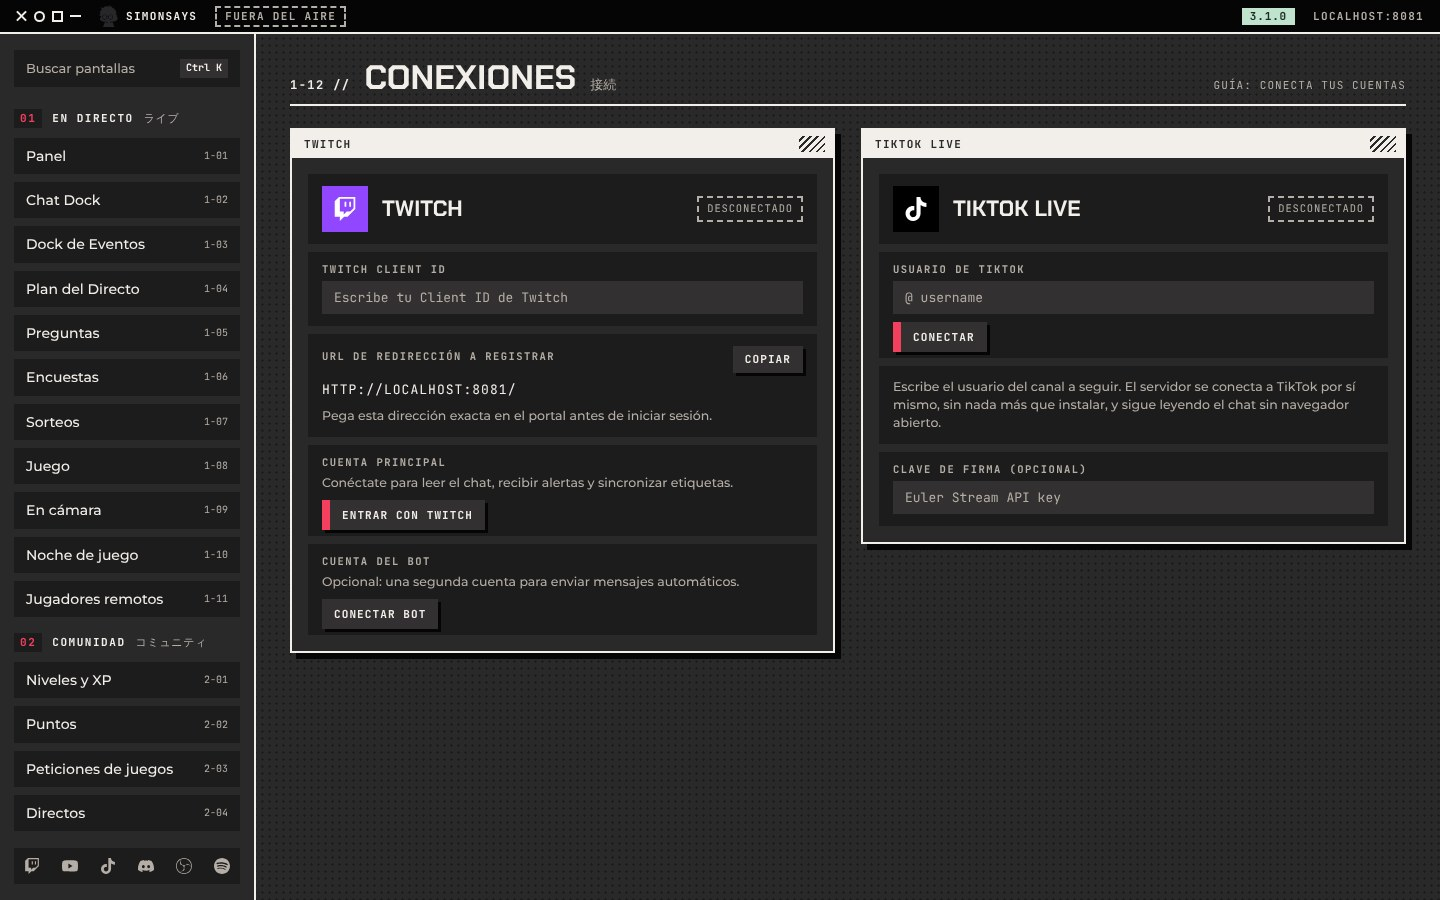
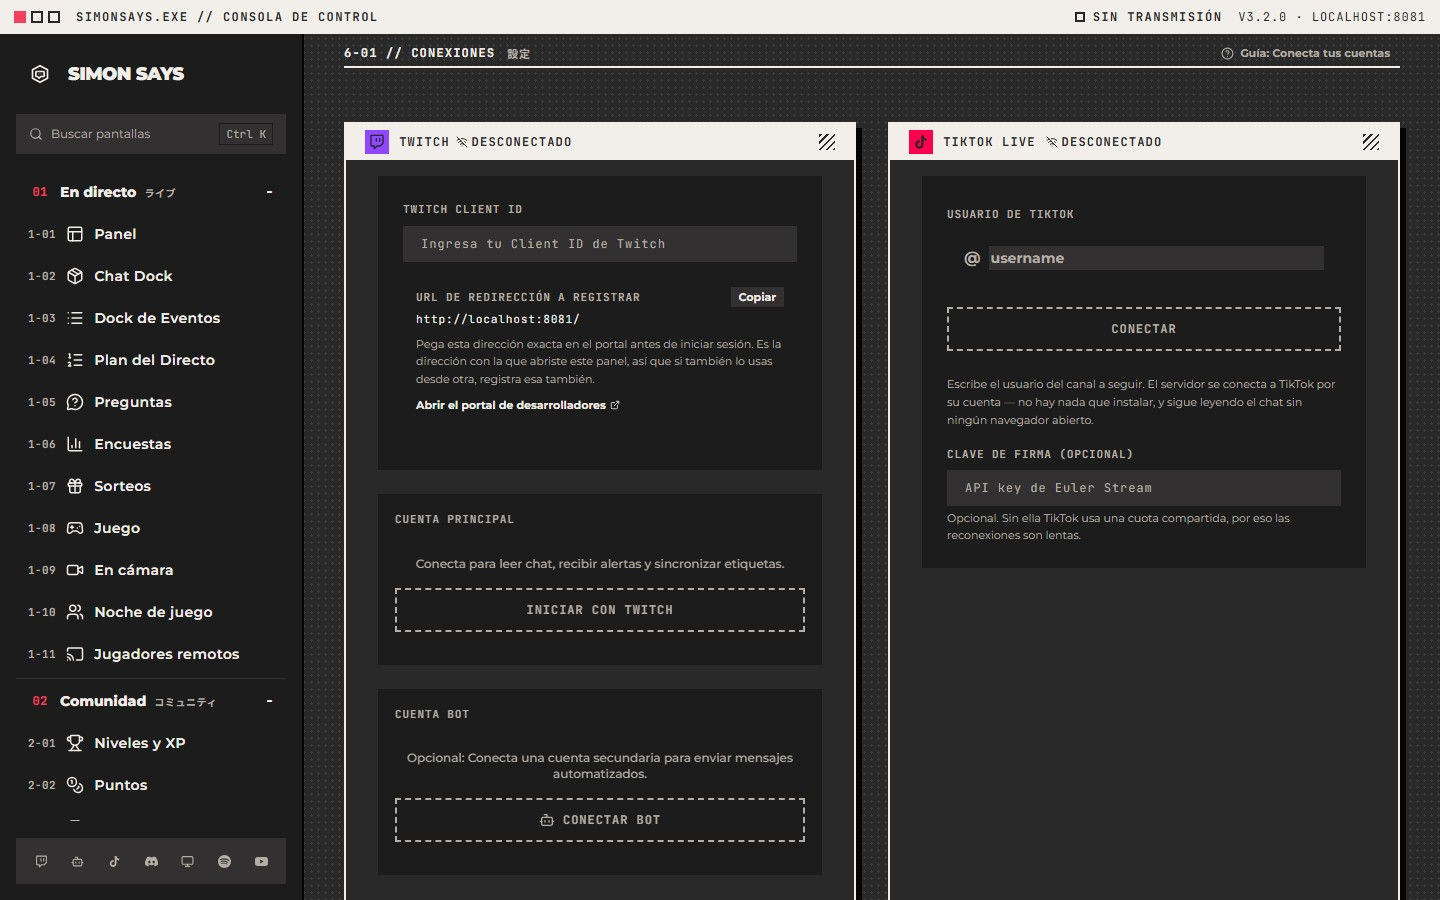
SimonSays site, up to date with 3.2.0: the version, the new look on the roadmap, and new screens of the app in English and Spanish

diff --git a/index.html b/index.html
@@ -3656,7 +3656,7 @@ h3, [class*="feature-title"], [class*="step-title"], [class*="release-name"], .f
 </div>
 <div class="fc-wordmark-text">
 <p class="fc-wordmark-name">Simon<em>Says</em></p>
-<p class="fc-wordmark-role" data-latest-version=""><span data-l="en">Stream automation · v3.1.0</span><span data-l="es">Automatización de streams · v3.1.0</span></p>
+<p class="fc-wordmark-role" data-latest-version=""><span data-l="en">Stream automation · v3.2.0</span><span data-l="es">Automatización de streams · v3.2.0</span></p>
 </div>
 </div>
 <h1 class="fc-hero-title"><span data-l="en">Your whole stream, run by one small server.</span><span data-l="es">Todo tu stream, manejado por un pequeño servidor.</span></h1>
@@ -3800,7 +3800,7 @@ h3, [class*="feature-title"], [class*="step-title"], [class*="release-name"], .f
 <section class="fc-ss-inside" id="ss-inside">
 <div class="fc-inside-head">
 <p class="fc-eyebrow"><span data-l="en">Inside the app</span><span data-l="es">Dentro de la app</span></p>
-<h2 class="fc-title"><span data-l="en">The real thing, version 3.1.0.</span><span data-l="es">La app de verdad, versión 3.1.0.</span></h2>
+<h2 class="fc-title"><span data-l="en">The real thing, version 3.2.0.</span><span data-l="es">La app de verdad, versión 3.2.0.</span></h2>
 <p class="fc-lede"><span data-l="en">Screens from SimonSays as it opens on a fresh install, before any platform is connected.</span><span data-l="es">Pantallas de SimonSays tal como abre en una instalación nueva, antes de conectar ninguna plataforma.</span></p>
 </div>
 <div class="fc-tabs" role="tablist">
@@ -3912,7 +3912,7 @@ h3, [class*="feature-title"], [class*="step-title"], [class*="release-name"], .f
 <div class="fc-roadmap-head">
 <p class="fc-eyebrow"><span data-l="en">Roadmap</span><span data-l="es">Hoja de ruta</span></p>
 <h2 class="fc-title"><span data-l="en">Six more major updates are planned.</span><span data-l="es">Hay seis actualizaciones grandes más en camino.</span></h2>
-<p class="fc-lede"><span data-l="en">3.0.0, the easy install update, is out, and 3.1 brought it to Linux and Android phones. These come next, each a major version.</span><span data-l="es">La 3.0.0, la actualización de la instalación fácil, ya salió, y la 3.1 la llevó a Linux y a los teléfonos Android. Estas vienen después, cada una una versión mayor.</span></p>
+<p class="fc-lede"><span data-l="en">3.0.0, the easy install update, is out, 3.1 brought it to Linux and Android phones, and 3.2 gave the dashboard a new look. These come next, each a major version.</span><span data-l="es">La 3.0.0, la actualización de la instalación fácil, ya salió, la 3.1 la llevó a Linux y a los teléfonos Android, y la 3.2 le dio un nuevo aspecto al panel. Estas vienen después, cada una una versión mayor.</span></p>
 </div>
 <div class="fc-roadmap-list">
 <div class="fc-release">
